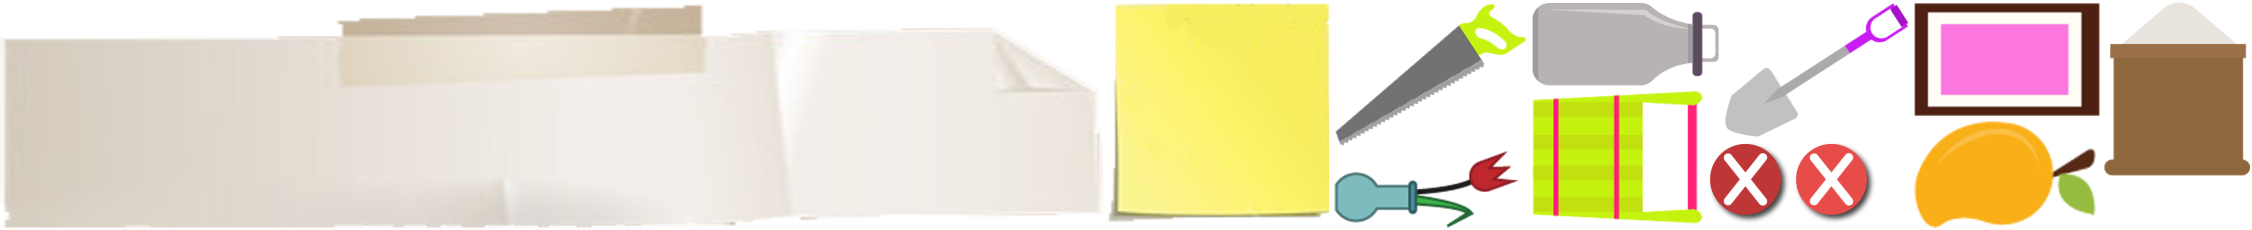
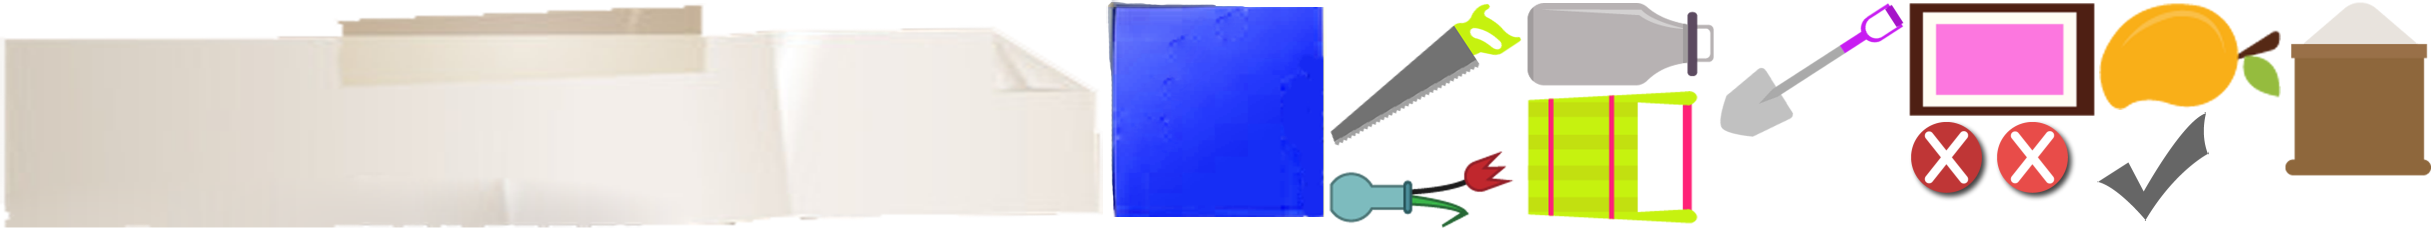
RPG Changes

diff --git a/goa/frameworks/runtime-src/Classes/HelloWorldScene.cpp b/goa/frameworks/runtime-src/Classes/HelloWorldScene.cpp
@@ -77,7 +77,8 @@ _speechBubbleView(nullptr),
 _textDisplayAnimationRunning(false),
 _greyLayer(nullptr),
 _wordToPronounce(""),
-_bagPackNode(nullptr)
+_bagPackNode(nullptr),
+_hintText("")
 {
     this->stateMachine = NULL;
 }
@@ -111,23 +112,38 @@ void HelloWorld::renderBagPack() {
         Sprite* sNode = dynamic_cast<Sprite*>(node);
         if(sNode != NULL && sNode->getChildrenCount() == 0) {
             
-            if(node->getName().compare("text") == 0 || node->getName().compare("t1") == 0 ||
-               node->getName().compare("t2") == 0 || node->getName().compare("t3") == 0 || node->getName().compare("t4") == 0 ||
-               node->getName().compare("t5") == 0 || node->getName().compare("t6") == 0 || node->getName().compare("t7") == 0 || node->getName().compare("t8") == 0)
-            {
-                continue;
-            }
-            
             int result = this->sqlite3Helper->checkIfItemExistsInBag(node->getName().c_str(), this->getIsland().c_str());
             
             if(result == 1) {
-                sNode->setOpacity(255);
-            } else {
-                sNode->setOpacity(50);
+                //in bag
+                CCLOG("already in bag %s", node->getName().c_str());
+                Sprite *checkSprite = Sprite::createWithSpriteFrameName("farmhouse_bagpack/tick.png");
+                _bagPackNode->addChild(checkSprite, 1);
+                checkSprite->setPosition(node->getPosition());
             }
+            
+        }
+        
+        cocos2d::ui::Text* sLabel = dynamic_cast<cocos2d::ui::Text*>(node);
+        if(sLabel != NULL && sLabel->getChildrenCount() == 0) {
+            CCLOG("putting label text %s", sLabel->getName().c_str());
+            sLabel->setString(sLabel->getName());
+            sLabel->setFontSize(50);
+            sLabel->setFontName("Arial");
+            sLabel->setTextColor(Color4B::BLACK);
         }
     }
     
+    Node* textFieldNode = _bagPackNode->getChildByName("TextField");
+    cocos2d::ui::TextField* sTextField = dynamic_cast<cocos2d::ui::TextField*>(textFieldNode);
+    if(sTextField != NULL) {
+        sTextField->setString(_hintText);
+        sTextField->setFontName("Arial");
+        sTextField->setFontSize(50);
+        sTextField->setTextColor(Color4B::BLACK);
+        sTextField->setTextHorizontalAlignment(TextHAlignment::CENTER);
+        sTextField->setTextVerticalAlignment(TextVAlignment::TOP);
+    }
 }
 
 void HelloWorld::showBagpackOpenAnimation(std::unordered_map<int, std::string> textMapFollowedByAnimation, std::string owner) {
@@ -796,6 +812,12 @@ void HelloWorld::processUseInBackPackMessages(std::vector<MessageContent*>showMe
                     this->processTextMessage(textMapFollowedByAnimation, content->getOwner());
                 }
                 
+                if(!content->getHint().empty()) {
+                    CCLOG("content->hint %s", content->getHint().c_str());
+                    _hintText = content->getHint();
+                }
+                
+
                 
                 if(!content->getPostOutComeAction().empty()) {
                     CCLOG("content->getPostOutComeAction() %s", content->getPostOutComeAction().c_str());
@@ -864,9 +886,15 @@ void HelloWorld::processPutInBackPackMessages(std::vector<MessageContent*>showMe
                     
                 }
                 
-                
                 CCLOG("content->getPostOutComeAction() %s", content->getPostOutComeAction().c_str());
-                CCLOG("content->hint %s", content->getHint().c_str());
+
+                
+                if(!content->getHint().empty()) {
+                    CCLOG("content->hint %s", content->getHint().c_str());
+                    _hintText = content->getHint();
+                }
+                
+                
                 //play animation
                 
                 if(content->getShouldDisplayInBag() && result == 1) {

diff --git a/goa/frameworks/runtime-src/Classes/ExternalSkeletonCharacter.cpp b/goa/frameworks/runtime-src/Classes/ExternalSkeletonCharacter.cpp
@@ -47,7 +47,7 @@ bool ExternalSkeletonCharacter::initializeExternalSkeletonCharacter(cocos2d::Nod
     this->createExternalSkeletonNode(node, this->getFileName());
     this->addChild(this->externalSkeletonNode);
     this->externalSkeletonNode->setPosition(node->getPosition());
-//    this->showTouchPointer();
+    this->showTouchPointer();
     
     return true;
 }
@@ -71,10 +71,12 @@ void ExternalSkeletonCharacter::showTouchPointer() {
         this->touchPointerNode =  Sprite::create(TOUCH_POINTER_IMG);
         if(this->touchPointerNode)
         {
-            this->touchPointerNode->setScale(1.0f, 1.0f);
-            this->touchPointerNode->setPosition(this->externalSkeletonNode->getPosition());
+            this->touchPointerNode->setScale(0.75f, 0.75f);
+//            this->touchPointerNode->setFlippedX(true);
+//            this->touchPointerNode->setFlippedY(true);
+            this->touchPointerNode->setPosition(Vec2(this->externalSkeletonNode->getPosition().x, this->externalSkeletonNode->getPosition().y - 150));
             this->touchPointerNode->setVisible(true);
-            
+            this->externalSkeletonNode->getParent()->addChild(this->touchPointerNode, 1);
         }
     }
 }

diff --git a/goa/frameworks/runtime-src/Classes/RPGSprite.cpp b/goa/frameworks/runtime-src/Classes/RPGSprite.cpp
@@ -180,7 +180,7 @@ void RPGSprite::showTouchPointer() {
         this->touchPointerNode =  Sprite::create(TOUCH_POINTER_IMG);
         if(this->touchPointerNode)
         {
-            this->touchPointerNode->setScale(0.5f, 0.5f);
+            this->touchPointerNode->setScale(1.0f, 1.0f);
             float xPos = 0.0f;
             float yPos = 0.0f;
             

diff --git a/goa/frameworks/runtime-src/Classes/HelloWorldScene.h b/goa/frameworks/runtime-src/Classes/HelloWorldScene.h
@@ -61,6 +61,8 @@ private:
     
     std::string _wordToPronounce;
     
+    std::string _hintText;
+    
     SpeechBubbleView* _speechBubbleView;
     
     GestureLayer* gesture_layer_;
